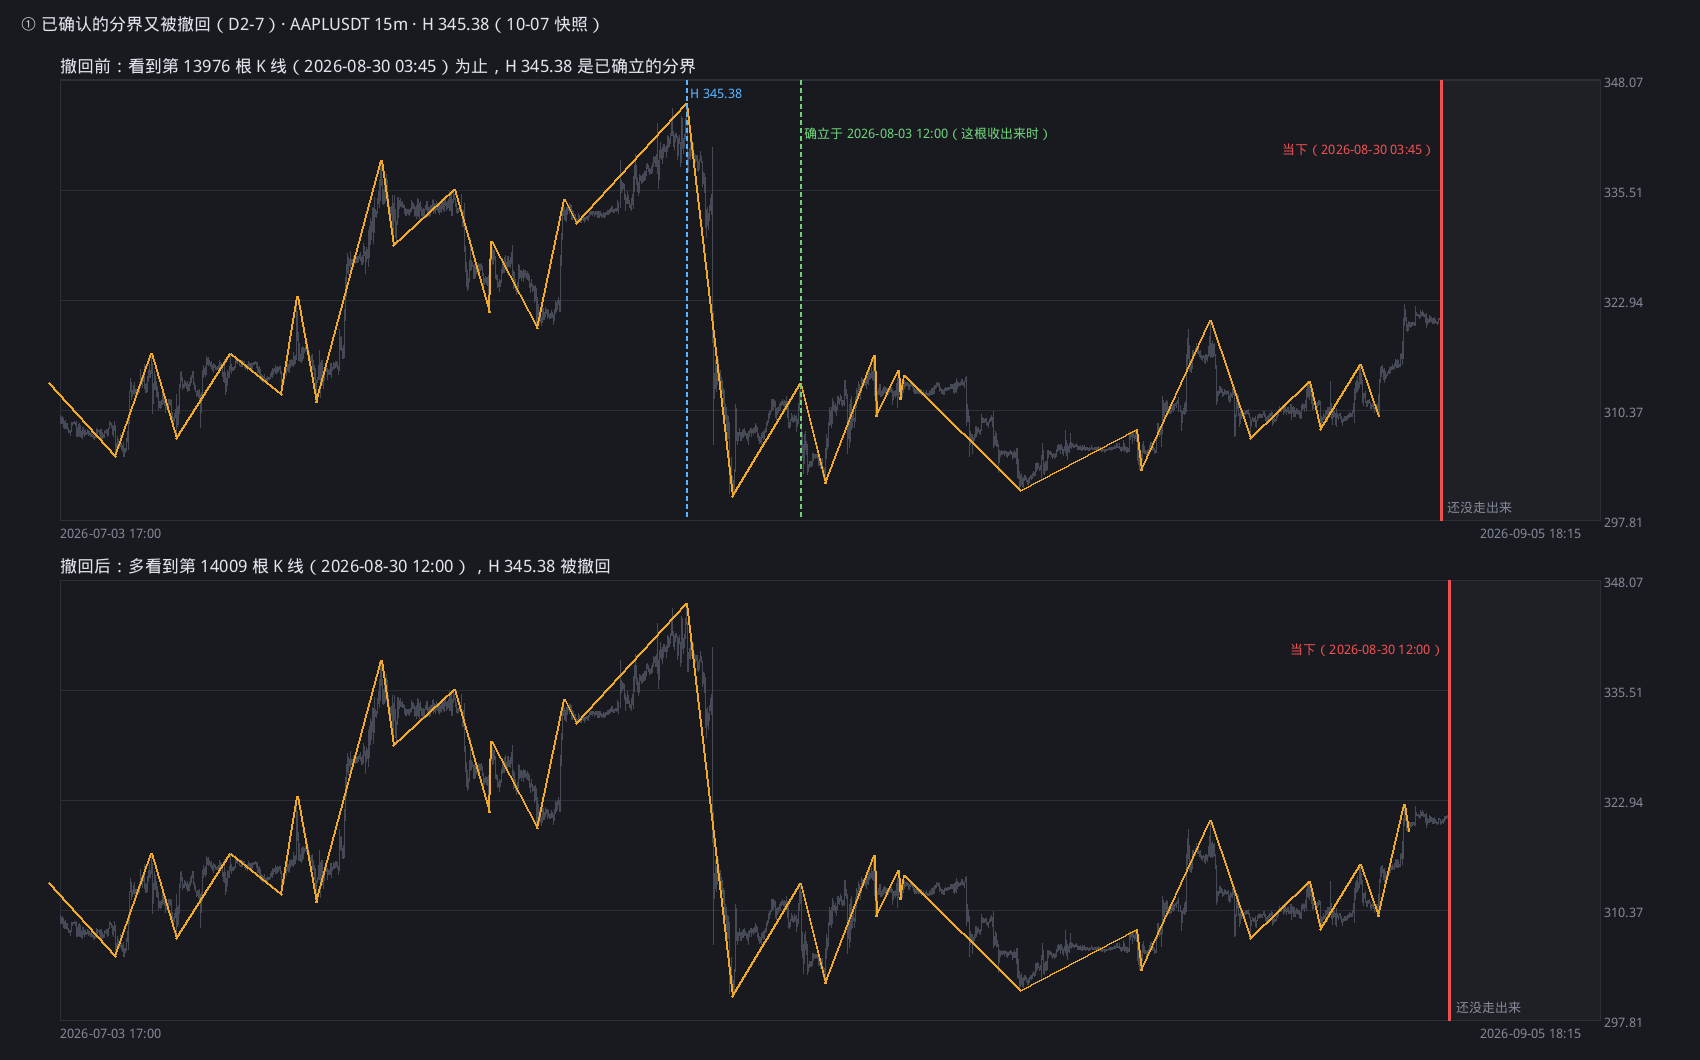
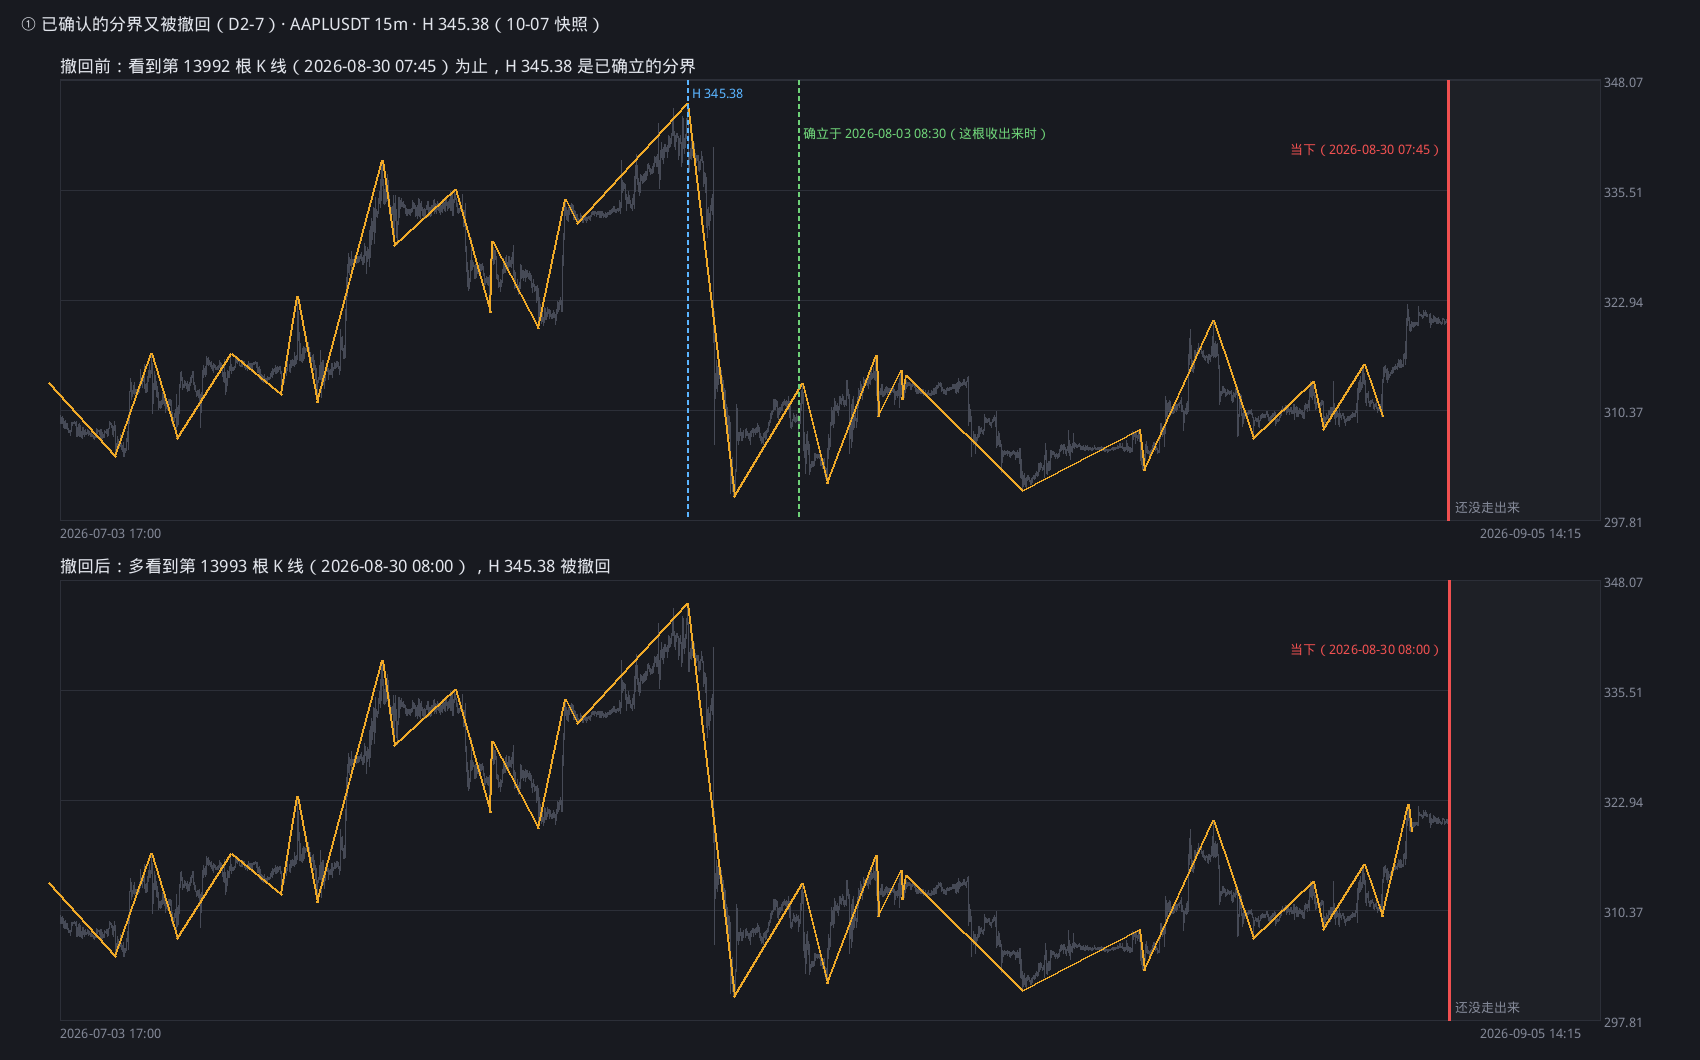
总纲④：图 1 逐根取确立／撤回时刻；③B 任意连续 9 段的量数脚本

diff --git a/notes/zg4/b3.py b/notes/zg4/b3.py
@@ -1,0 +1,34 @@
+"""③B：扩展链里任意连续 9 段、3+3+3 三组有公共重叠就合成（取最早的一处），其余照现行（不足 9 段不合、末段 D3-4 不合）。"""
+import sys, os, json, gzip
+sys.path[:0] = [os.getcwd(), "tools"]
+from core.analyze import analyze
+import core.trend as T
+from config import tick_of
+snap = json.loads(gzip.open(os.environ["LIVE15"]).read())
+syms = {"ZECUSDT": "zec", "BTCUSDT": "btc", "AAPLUSDT": "aaplusdt"}
+items = [(k, snap[k]["bars"], syms[k.split()[0]] + "_.json") for k in sorted(snap)]
+for fn in ["aaplusdt_1h", "aaplusdt_2h", "aaplusdt_30m", "aaplusdt_4h", "btc_4h", "zec15", "zec30_cut", "zec_1h", "zec_2h", "zec_4h"]:
+    items.append(("data/" + fn, json.load(open("data/%s.json" % fn)), fn + ".json"))
+orig = T._regroup
+def slide(done, a, b):
+    for s in range(a, b - 7):
+        hz = orig(done, s, b)
+        if hz: return hz
+    return None
+key = lambda v: {(x["bar"], x["kind"]) for x in v["bounds"]}
+typ = lambda v: [(s["i0"], s["i1"], s["type"], s["upgraded"]) for s in v["segments"]]
+ch = cuts = 0; segtype = 0; ex = []; still = 0
+for name, bars, tk in items:
+    r = analyze(bars, tick=tick_of(tk)); a = T.trend_v3(r)
+    T._regroup = slide
+    try: b = T.trend_v3(r)
+    finally: T._regroup = orig
+    d = len(key(a) ^ key(b))
+    ta, tb = typ(a), typ(b)
+    sd = len(set(ta) - set(tb))
+    if d or sd: ch += 1; ex.append("%s 刀±%d 段变%d" % (name, d, sd))
+    cuts += d; segtype += sd
+    for g, x in enumerate(b["segments"]):
+        if x["type"] == "盘整" and not x["head"] and not x["upgraded"] and len([z for z in b["seg_centers"] if z["seg"] == g]) >= 2: still += 1
+print("③B 任意连续 9 段：变的图 %d/25，刀增删 %d，走势段（起止/段型/升级）变了的 %d 段；之后仍「多中枢没升级」的盘整 %d 段" % (ch, cuts, segtype, still))
+print(ex)

diff --git a/notes/zg4/figs.py b/notes/zg4/figs.py
@@ -56,8 +56,11 @@ rF, vF, _ = run(bars, tk)
 R = vF["retracted"][0]; B = R["bar"]
 grid = sorted({p["i1"] + 1 for p in rF["pens"] if R["pullback_end_bar"] <= p["i1"] <= R["retracted_bar"] + 600})
 has = lambda n: any(b["bar"] == B for b in run(bars, tk, n)[1]["bounds"])
-t1 = next(n for n in grid if has(n)); t2 = next(n for n in grid if n > t1 and not has(n))
-k2 = max(n for n in grid if n < t2 and has(n))
+# 逐根找：确立＝第一次出现的前缀，撤回＝其后第一次消失的前缀（先按笔粗找，再在区间里逐根）
+g1 = next(n for n in grid if has(n)); lo = max(0, g1 - 400)
+t1 = next(n for n in range(lo, g1 + 1) if has(n))
+g2 = next(n for n in grid if n > g1 and not has(n)); gp = max(n for n in grid if n < g2)
+t2 = next(n for n in range(gp, g2 + 1) if not has(n)); k2 = t2 - 1
 lo_i, hi_i = max(0, B - 2500), min(len(bars) - 1, t2 + 600)
 img = Image.new("RGB", (1700, 1060), BG); d = ImageDraw.Draw(img)
 d.text((20, 12), "① 已确认的分界又被撤回（D2-7）· AAPLUSDT 15m · H 345.38（10-07 快照）", font=F, fill=TXT)

diff --git a/notes/zg4/d20replay.py b/notes/zg4/d20replay.py
@@ -33,7 +33,7 @@ def one(it):
         dl = [(d["i0"], d["i1"]) for d in T.find_bounds(r)["done"] if not d.get("live")]
         R, S = set(rl[:-1]), set(dl[:-1])                # 最后一条已完成线段可能还是暂定的：不算「已确认」
         if prevR is not None:
-            lr, ls = prevR - R, prevS - S
+            lr, ls = prevR - set(rl), prevS - set(dl)     # 上一刻已确认的，这一刻连「最后一条」都不是了 ⇒ 撤了
             raw_w += len(lr); std_w += len(ls)
             if ls and not lr:
                 std_only += len(ls)
